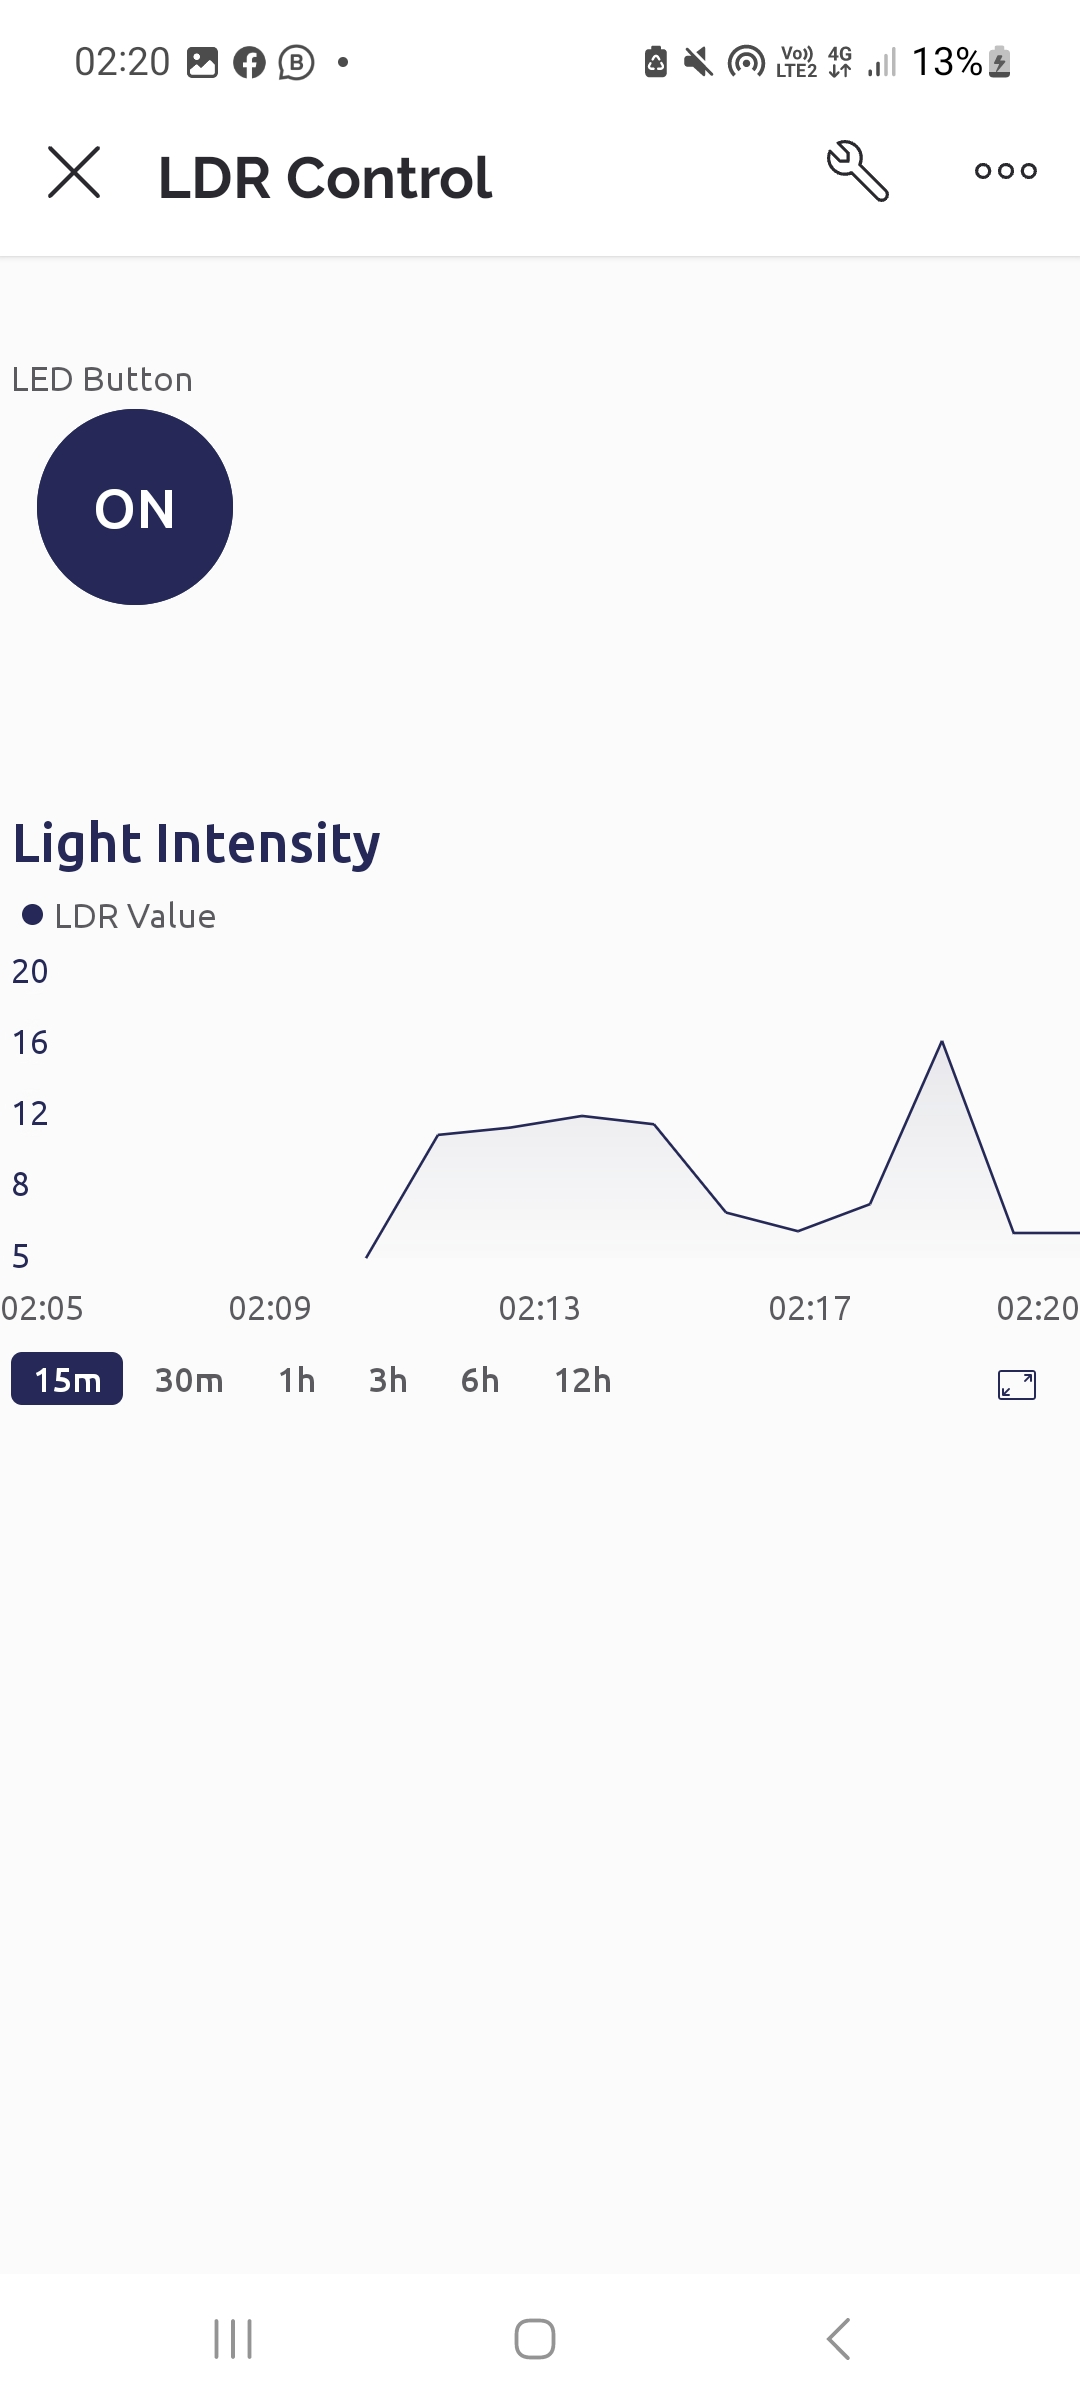
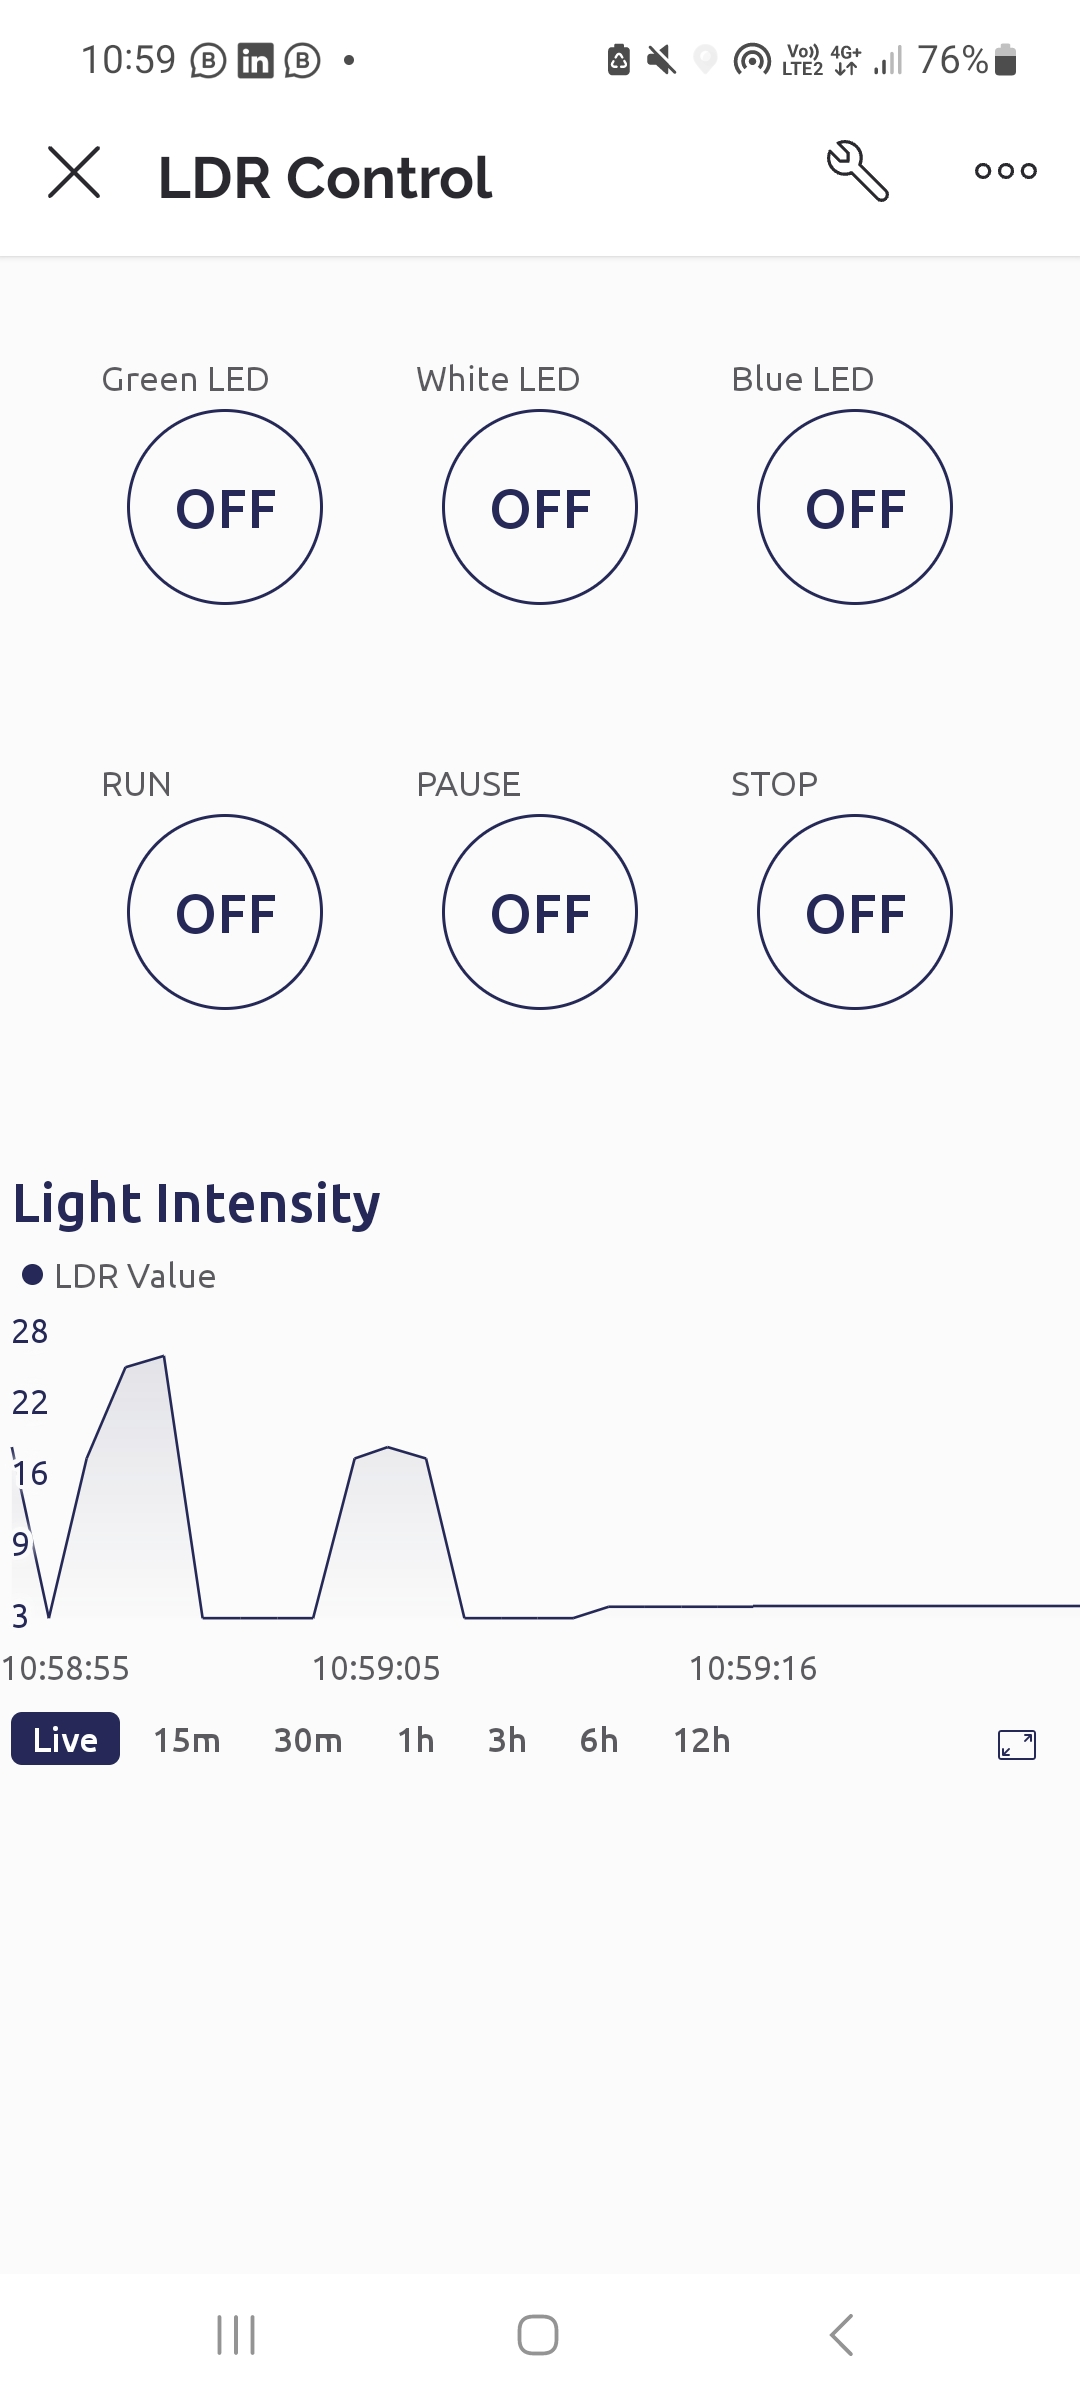
added LEDs and run stop button

diff --git a/README.md b/README.md
@@ -1,6 +1,6 @@
-# LDR Sensor with ESP8266-12E + Blynk
+# LDR Sensor with ESP8266-12E + Blynk IoT
 
-![diagram](https://raw.githubusercontent.com/hovahyii/MCA-Final-Project-LDR-Sensor/main/circuit.jpg)
+<img src="/circuit.jpg">
 
 This project involves using an LDR sensor and a button in a Blynk app to control a servo motor and an LED. The LDR sensor is used to detect the ambient light level and open or close the servo motor based on the sensor's reading. The button in the Blynk app is used to turn an LED on or off. This project demonstrates the ability to remotely control physical devices using a Blynk app and an ESP8266 microcontroller.
 
@@ -10,6 +10,8 @@ This project involves using an LDR sensor and a button in a Blynk app to control
 ## Author
 - JEHOVAH YII ZUI HON TB20091
 
+<br/>
+
 ## Teammate
 - DAVEIYN A/L MUTHU SELWANATHAN TB21011
 
@@ -17,10 +19,12 @@ This project involves using an LDR sensor and a button in a Blynk app to control
 <br/>
 
 ## Materials
-- Servo Motor
-- LED
-- LDR Sensor
-- ESP8266-12E
+- 1 X Servo Motor
+- 1 X Green LED
+- 1 X Blue LED
+- 1 X White LED
+- 1 X LDR Sensor
+- 1 X ESP8266-12E
 - Blynk IoT
 
 
@@ -31,31 +35,51 @@ This project involves using an LDR sensor and a button in a Blynk app to control
 
 <br/>
 
-## Setup Blynk
+## Important
+> Make sure you use your own mobile hotspot, as university WIFI and public WIFI block the SSID connection
+> The ssid is your mobile hotspot Network name and the pass is your mobile hotspot password
+
+<br/>
+
+## Setup 
 1. Go to [https://blynk.io/](https://blynk.io/)
 2. Sign up using your email
 3. Download Blynk IoT from [PlayStore](https://play.google.com/store/apps/details?id=cloud.blynk) or [App Store](https://apps.apple.com/us/app/blynk-iot/id1559317868) in your phone.
-4. Once done, setup up a prototype in Blynk IoT as shown in the figure below: 
-<br/>
-<img src="/control.jpg" width="250">
-<br/>
-5. Setup the Datastream for LED and LDR sensor respectively
+4. Create a prototype as shown in figure below:
+   <br/>
+      <img src="/main.jpg" width="250">
+   <br/>
+5. Once done, setup up the components: 
+   <br/>
+      <img src="/control.jpg" width="250">
+   <br/>
+5. Setup the Datastream for LEDs and LDR sensor respectively
    - V1 for LDR (change the MAX value to 300)
-   - V2 for LED
+   - V2 for Green LED
+   - V3 for White LED
+   - V4 for Blue LED
+   - V13 for RUN button
+   - V14 for PAUSE button
+   - V15 for STOP button
+   - SuperChart to display the graph
 6. Connect the circuit as shown in the diagram above 
 
 <br/>
 
 ## Connection
-| ESP8266     | Components              |
-| ----------- | -----------             |
-| D4          | Servo - orange          |
-| 3V          | Servo - red             |
-| D4          | Servo - chocolate       |
-| D7          | LED (+)                 | 
-| A0          | LDR Sensor (any leg)    | 
-| G           | Breadboard (-)          |
-| Vin         | Breadboard (+)          |
+| ESP8266     | Components                |
+| ----------- | -----------               |
+| D4          | Servo - orange            |
+| 3V          | Servo - red               |
+| D4          | Servo - chocolate         |
+| D5          | Blue LED (+)              | 
+| D6          | White LED (+)             | 
+| D7          | Green LED (+)             | 
+| A0          | LDR Sensor (any leg)      | 
+| G           | Breadboard (-)            |
+| Vin         | Breadboard (+)            |
+
+> The other left behind leg are connected to the ground
 
 <br/>
 
